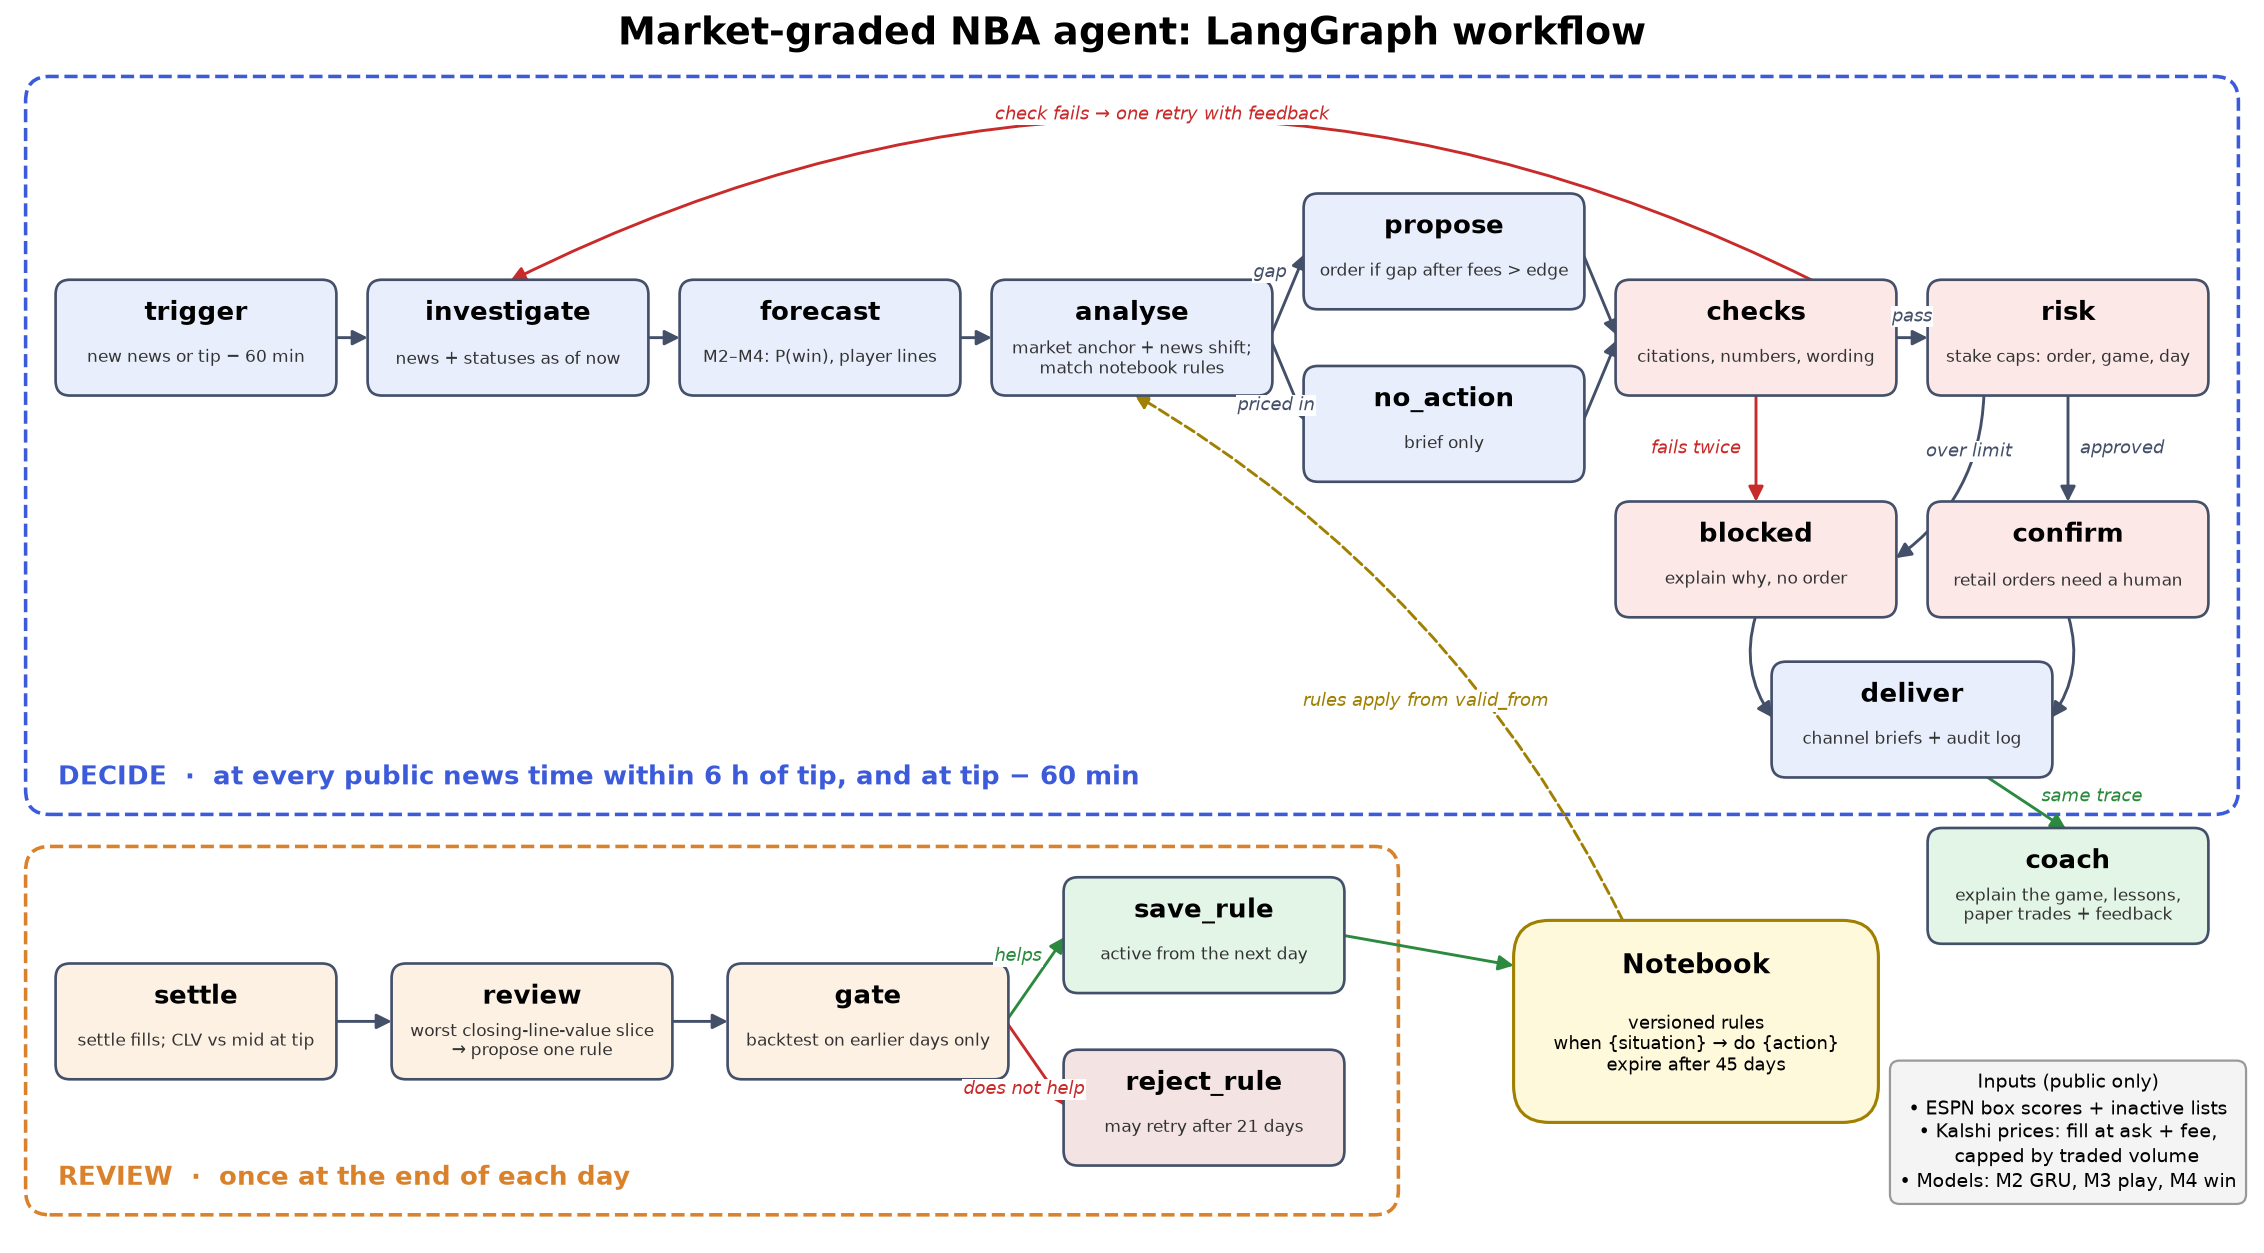
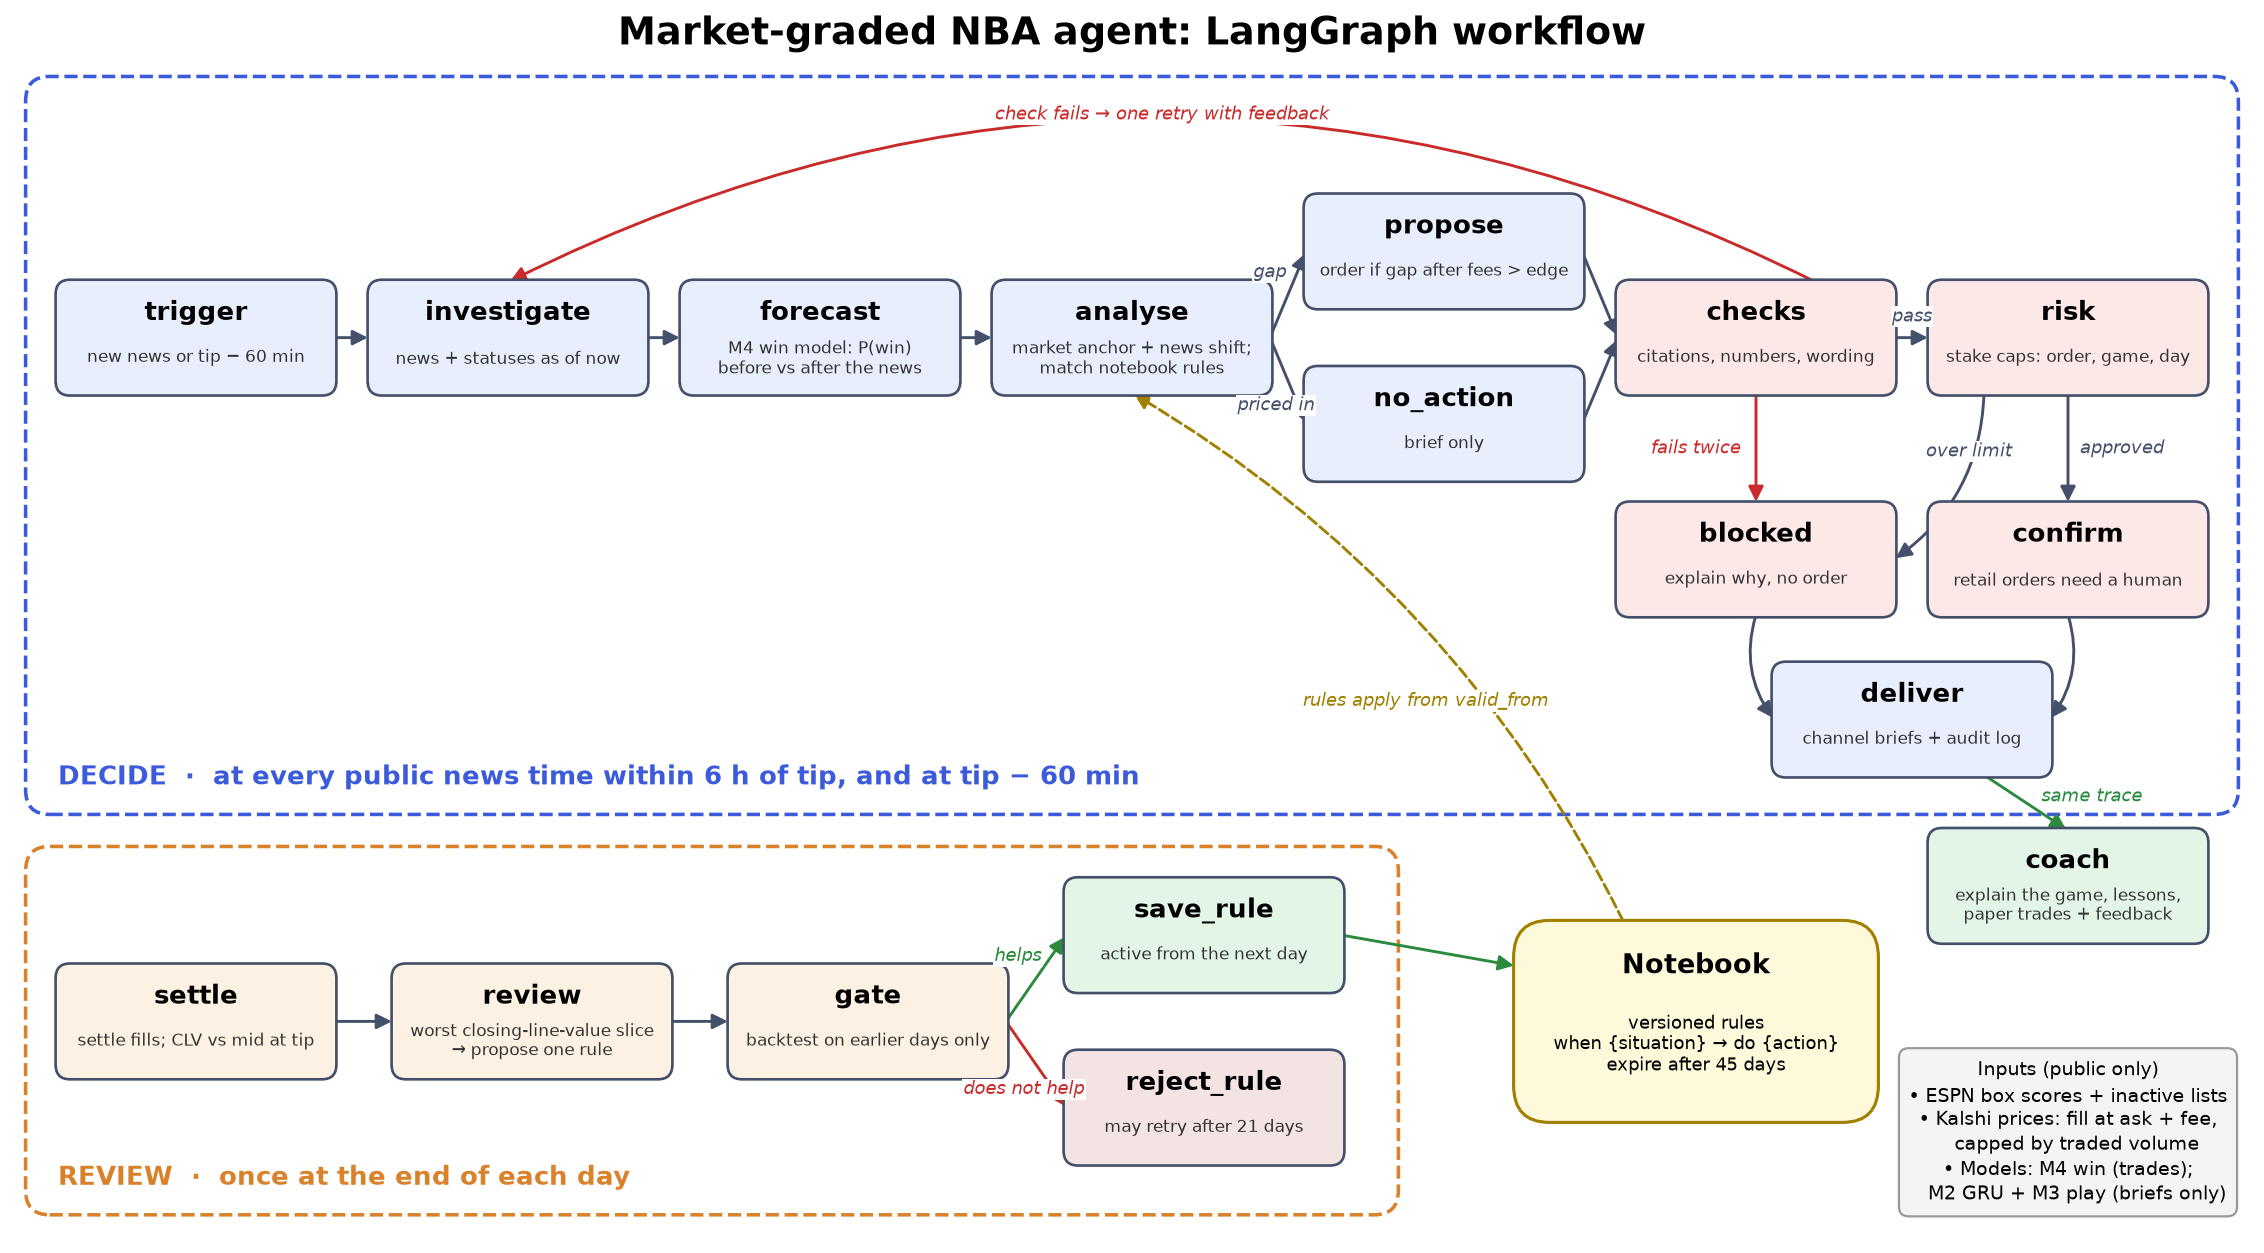
Workflow diagram: trades use M4 only; M2 and M3 feed the briefs

Changed region(s): [[0.8348, 0.8404, 0.9894, 0.9649], [0.3092, 0.249, 0.4019, 0.3113]]

diff --git a/evaluation/workflow_diagram.py b/evaluation/workflow_diagram.py
@@ -19,7 +19,7 @@ DECIDE, REVIEW, SAFETY, GOOD, BAD = "#e8eefc", "#fdf1e3", "#fde8e8", "#e3f5e6", 
 NODES = {
     "trigger": (1.5, 7.3, "new news or tip − 60 min", DECIDE),
     "investigate": (4.1, 7.3, "news + statuses as of now", DECIDE),
-    "forecast": (6.7, 7.3, "M2–M4: P(win), player lines", DECIDE),
+    "forecast": (6.7, 7.3, "M4 win model: P(win)\nbefore vs after the news", DECIDE),
     "analyse": (9.3, 7.3, "market anchor + news shift;\nmatch notebook rules", DECIDE),
     "propose": (11.9, 8.0, "order if gap after fees > edge", DECIDE),
     "no_action": (11.9, 6.6, "brief only", DECIDE),
@@ -113,7 +113,7 @@ def draw(path: Path):
           ls="--")
 
     ax.text(17.1, 0.85, "Inputs (public only)\n• ESPN box scores + inactive lists\n• Kalshi prices: fill at ask"
-            " + fee,\n   capped by traded volume\n• Models: M2 GRU, M3 play, M4 win",
+            " + fee,\n   capped by traded volume\n• Models: M4 win (trades);\n   M2 GRU + M3 play (briefs only)",
             fontsize=8.6, va="center", ha="center", linespacing=1.3,
             bbox=dict(boxstyle="round,pad=0.5", fc="#f4f4f4", ec="#999"))
 
